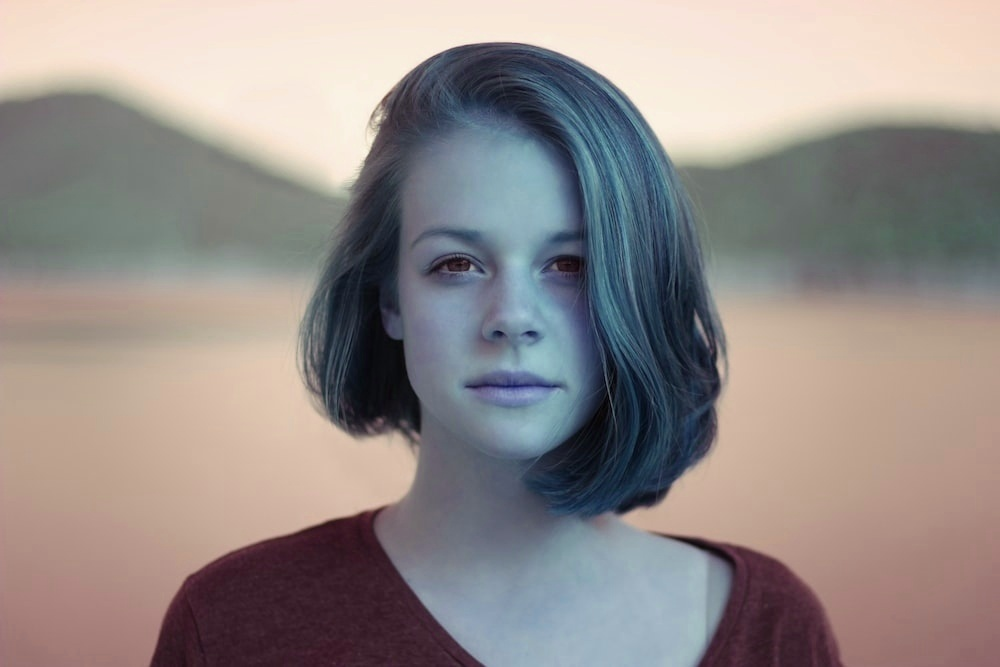
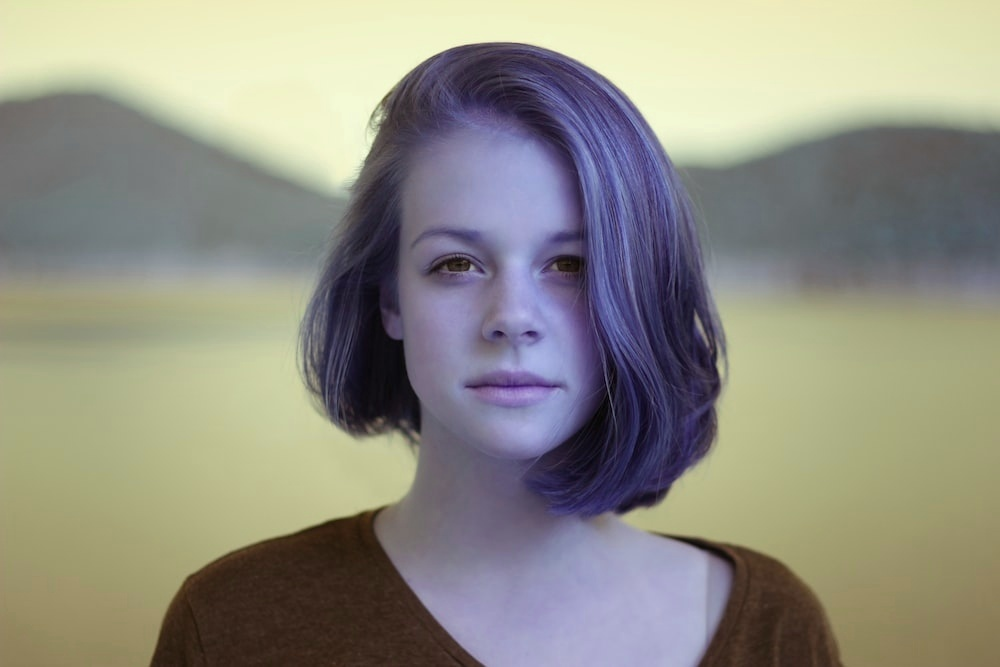
Fixed Issue with Basic Filters

diff --git a/backend/services/ml_services/hue.py b/backend/services/ml_services/hue.py
@@ -3,22 +3,24 @@
 from PIL import Image
 import pilgram
 import numpy as np
+import cv2
 
 from services.file import save_to_final_folder, save_to_sub_folder, create_copy_image, check_copy_file_exist, delete_copy_file, revert_operation
 from config.settings import file_structure
 
 def hue_fun(file_name: str, system_file_path: str, factor: int, save: int, revert: int) -> str:
-    saturation_path = file_structure.USER_DATA + system_file_path.split("/")[3] + file_structure.HUE_PATH + system_file_path.split("/")[-1]
-    operation_file_path = check_copy_file_exist(original_path = system_file_path, sub_path = saturation_path, file_name = file_name)
+    hue_path = file_structure.USER_DATA + system_file_path.split("/")[3] + file_structure.HUE_PATH + system_file_path.split("/")[-1]
+    operation_file_path = check_copy_file_exist(original_path = system_file_path, sub_path = hue_path, file_name = file_name)
     image = Image.open(operation_file_path)
     hue_image = pilgram.css.hue_rotate(image, factor)
     hue_image = np.array(hue_image)
+    hue_image = cv2.cvtColor(hue_image, cv2.COLOR_BGR2RGB)
     if operation_file_path == system_file_path:
-        create_copy_image(from_path = system_file_path, to_path = saturation_path, file_name = file_name)
-    save_to_sub_folder(saturation_path, hue_image)
+        create_copy_image(from_path = system_file_path, to_path = hue_path, file_name = file_name)
+    save_to_sub_folder(hue_path, hue_image)
     save_to_final_folder(system_file_path, hue_image)
     if save == 1:
-        delete_copy_file(sub_path = saturation_path, file_name = file_name)
+        delete_copy_file(sub_path = hue_path, file_name = file_name)
     if revert == 1:
-        revert_operation(original_path = system_file_path, sub_path = saturation_path, file_name = file_name)
+        revert_operation(original_path = system_file_path, sub_path = hue_path, file_name = file_name)
     return system_file_path

diff --git a/backend/services/ml_services/brightness.py b/backend/services/ml_services/brightness.py
@@ -2,6 +2,7 @@
 # TODO: Change to Opencv
 from PIL import Image, ImageEnhance
 import numpy as np
+import cv2
 
 from services.file import save_to_final_folder, save_to_sub_folder, create_copy_image, check_copy_file_exist, delete_copy_file, revert_operation
 from config.settings import file_structure
@@ -13,6 +14,7 @@ def brightness_fun(file_name: str, system_file_path: str, factor: int, save: int
     enhancer = ImageEnhance.Brightness(image)
     brightness_image = enhancer.enhance(factor)
     brightness_image = np.array(brightness_image)
+    brightness_image = cv2.cvtColor(brightness_image, cv2.COLOR_BGR2RGB)
     if operation_file_path == system_file_path:
         create_copy_image(from_path = system_file_path, to_path = brightness_path, file_name = file_name)
     save_to_sub_folder(brightness_path, brightness_image)

diff --git a/backend/services/ml_services/contrast.py b/backend/services/ml_services/contrast.py
@@ -2,6 +2,7 @@
 # TODO: Change to Opencv
 from PIL import Image, ImageEnhance
 import numpy as np
+import cv2
 
 from services.file import save_to_final_folder, save_to_sub_folder, create_copy_image, check_copy_file_exist, delete_copy_file, revert_operation
 from config.settings import file_structure
@@ -13,6 +14,7 @@ def contrast_fun(file_name: str, system_file_path: str, factor: int, save: int, 
     enhancer = ImageEnhance.Contrast(image)
     contrasted_image = enhancer.enhance(factor)
     contrasted_image = np.array(contrasted_image)
+    contrasted_image = cv2.cvtColor(contrasted_image, cv2.COLOR_BGR2RGB)
     if operation_file_path == system_file_path:
         create_copy_image(from_path = system_file_path, to_path = contrast_path, file_name = file_name)
     save_to_sub_folder(contrast_path, contrasted_image)

diff --git a/backend/services/ml_services/sharpness.py b/backend/services/ml_services/sharpness.py
@@ -2,6 +2,7 @@
 # TODO: Change to Opencv
 from PIL import Image, ImageEnhance
 import numpy as np
+import cv2
 
 from services.file import save_to_final_folder, save_to_sub_folder, create_copy_image, check_copy_file_exist, delete_copy_file, revert_operation
 from config.settings import file_structure
@@ -13,6 +14,7 @@ def sharpness_fun(file_name: str, system_file_path: str, factor: int, save: int,
     enhancer = ImageEnhance.Sharpness(image)
     sharpness_image = enhancer.enhance(factor)
     sharpness_image = np.array(sharpness_image)
+    sharpness_image = cv2.cvtColor(sharpness_image, cv2.COLOR_BGR2RGB)
     if operation_file_path == system_file_path:
         create_copy_image(from_path = system_file_path, to_path = sharpness_path, file_name = file_name)
     save_to_sub_folder(sharpness_path, sharpness_image)

diff --git a/backend/services/ml_services/saturation.py b/backend/services/ml_services/saturation.py
@@ -3,6 +3,7 @@
 from PIL import Image
 import pilgram
 import numpy as np
+import cv2
 
 from services.file import save_to_final_folder, save_to_sub_folder, create_copy_image, check_copy_file_exist, delete_copy_file, revert_operation
 from config.settings import file_structure
@@ -13,6 +14,7 @@ def saturation_fun(file_name: str, system_file_path: str, factor: int, save: int
     image = Image.open(operation_file_path)
     saturated_image = pilgram.css.saturate(image, factor)
     saturated_image = np.array(saturated_image)
+    saturated_image = cv2.cvtColor(saturated_image, cv2.COLOR_BGR2RGB)
     if operation_file_path == system_file_path:
         create_copy_image(from_path = system_file_path, to_path = saturation_path, file_name = file_name)
     save_to_sub_folder(saturation_path, saturated_image)

diff --git a/backend/services/ml_services/background_remove.py b/backend/services/ml_services/background_remove.py
@@ -8,7 +8,8 @@ from config.settings import file_structure
 
 graph = tf.Graph()
 with graph.as_default():
-    model = tf.keras.models.load_model(file_structure.MODEL_FOLDER + "unet_jun.h5")
+    model = tf.keras.models.load_model(file_structure.MODEL_FOLDER + "unet_jun.h5", compile=False)
+#model = tf.keras.models.load_model(file_structure.MODEL_FOLDER + "unet_jun.h5", compile=False)
 
 def background_remove_fun(file_name: str, system_file_path: str) -> str:
     try:
